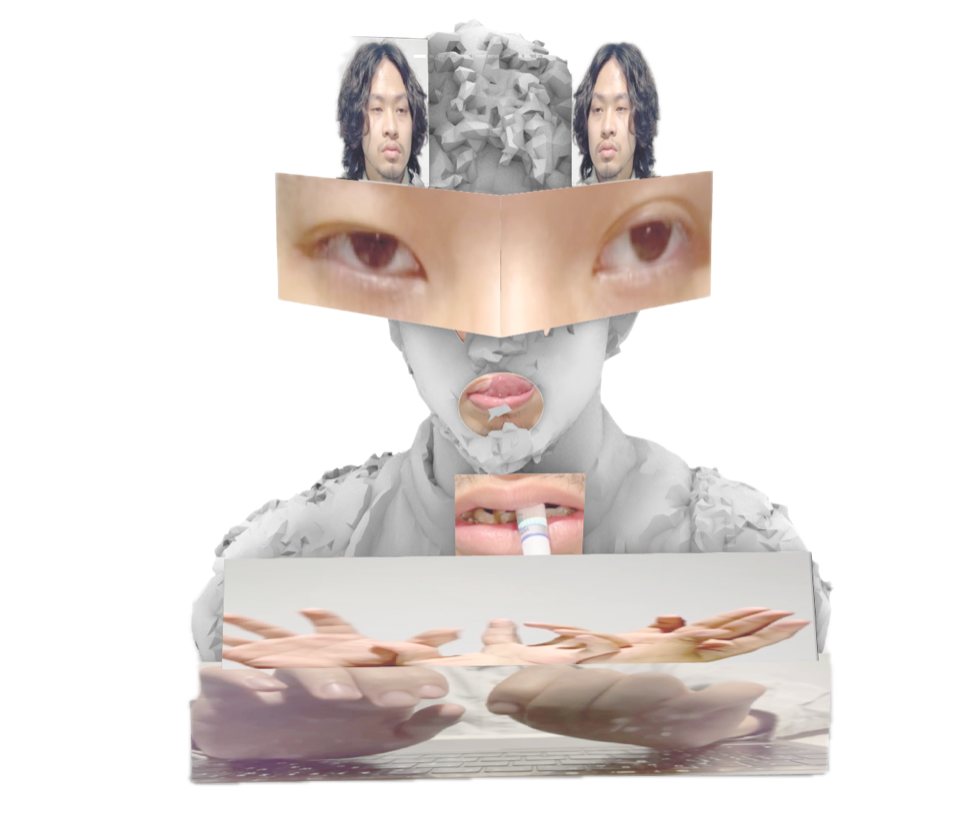
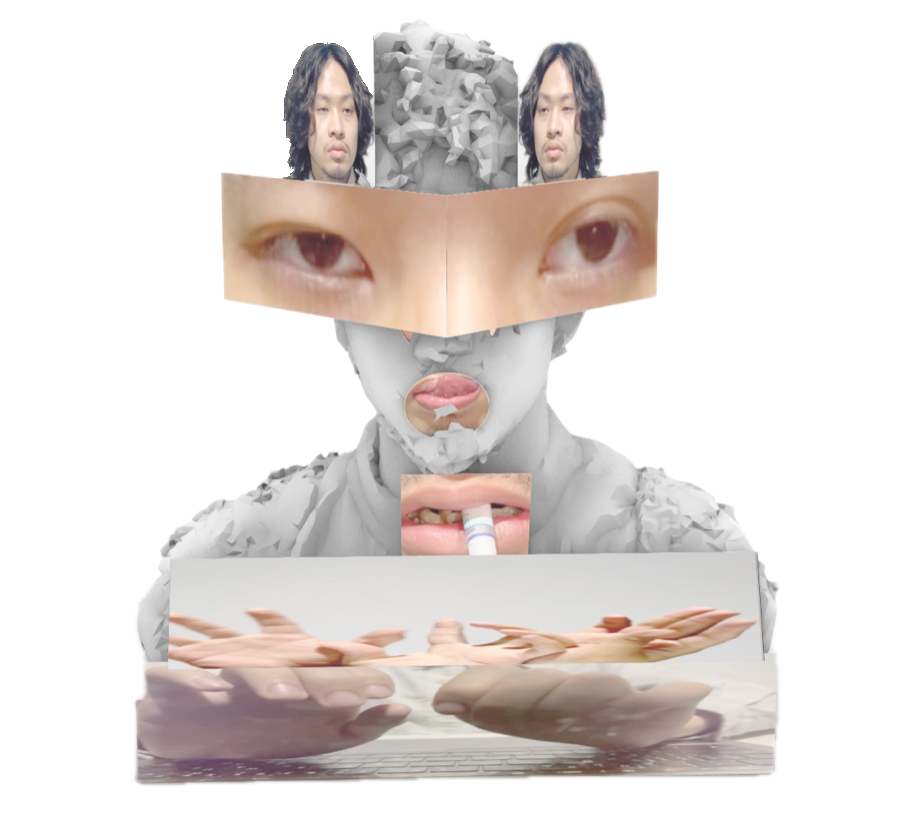
人像去背：清理左側頭髮灰底、左右裁成對稱置中

Changed region(s): [[0.1228, 0.0306, 0.8596, 0.978]]

diff --git a/index.html b/index.html
@@ -117,7 +117,7 @@
       <span class="line fit">Ching</span>
       <span class="line fit">Tsung</span>
     </h1>
-    <img class="hero" src="images/hero-cutout.png" alt="3D 掃描半身像，嵌著眼睛、嘴、手的照片面板" width="966" height="818">
+    <img class="hero" src="images/hero-cutout.png" alt="3D 掃描半身像，嵌著眼睛、嘴、手的照片面板" width="912" height="818">
   </main>
 
   <script>
